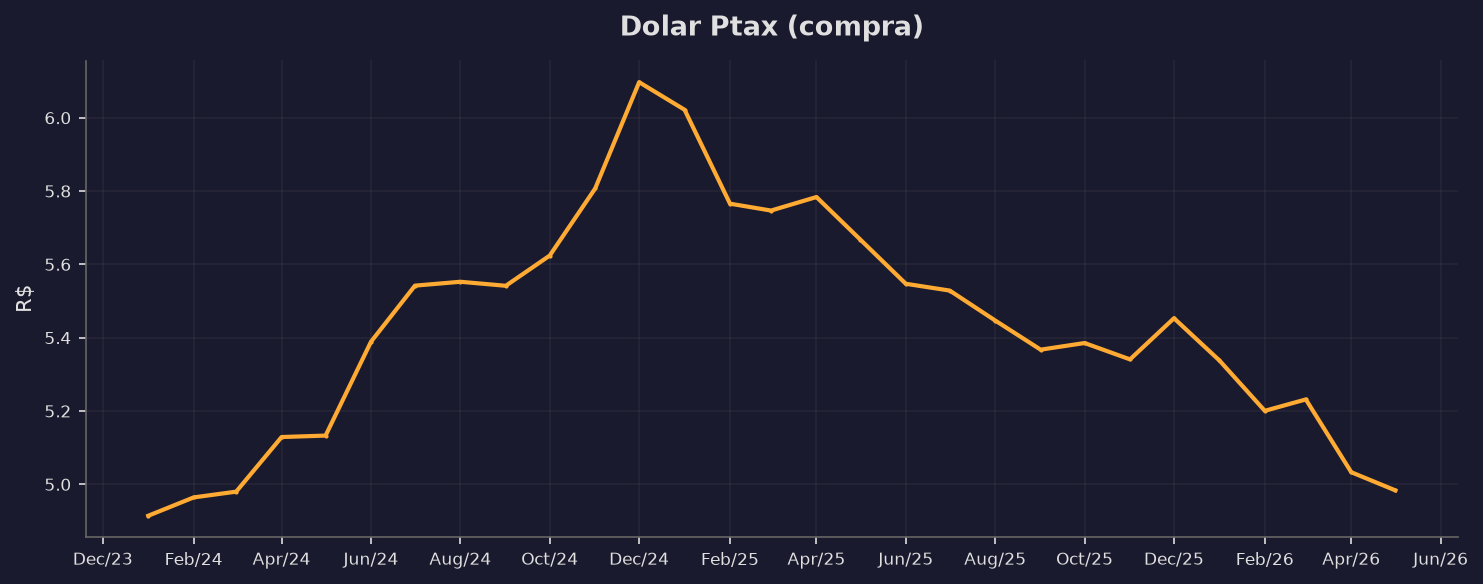
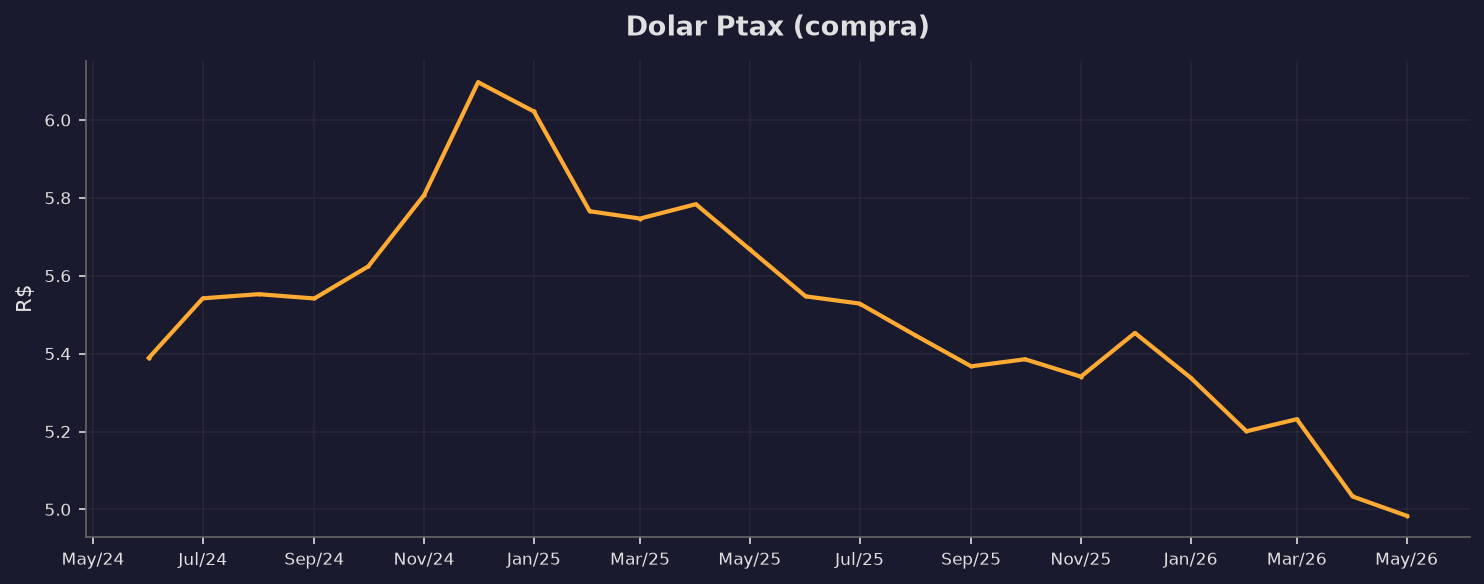
fix: grafico 6 substituido por estrutura da carteira (donut + risco por cenario); error handling no dashboard

diff --git a/scripts/dashboard_bcb.py b/scripts/dashboard_bcb.py
@@ -58,8 +58,8 @@ def grafico_selic_ipca():
     """Grafico 1: Selic + IPCA 12m - juro real."""
     print("  [1/6] Selic + IPCA 12m...", file=sys.stderr)
     
-    selic = sgs.get(432, start="2023-01-01", timeout=60)
-    ipca = sgs.get(13522, start="2023-01-01", timeout=60)
+    selic = sgs.get(432, start="2024-06-01", timeout=90)
+    ipca = sgs.get(13522, start="2024-06-01", timeout=90)
     
     fig, ax1 = plt.subplots(figsize=(10, 4.5))
     fig.patch.set_facecolor(COR_FUNDO)
@@ -99,7 +99,7 @@ def grafico_ipca_mensal():
     """Grafico 2: IPCA mensal com limiares."""
     print("  [2/6] IPCA mensal...", file=sys.stderr)
     
-    ipca = sgs.get(433, start="2024-01-01", timeout=60)
+    ipca = sgs.get(433, start="2024-06-01", timeout=90)
     
     fig, ax = plt.subplots(figsize=(10, 4))
     fig.patch.set_facecolor(COR_FUNDO)
@@ -135,7 +135,7 @@ def grafico_ibcbr():
     """Grafico 3: IBC-Br atividade economica."""
     print("  [3/6] IBC-Br...", file=sys.stderr)
     
-    ibc = sgs.get(24363, start="2023-01-01", timeout=60)
+    ibc = sgs.get(24363, start="2024-06-01", timeout=90)
     
     fig, ax = plt.subplots(figsize=(10, 4))
     fig.patch.set_facecolor(COR_FUNDO)
@@ -167,7 +167,7 @@ def grafico_dolar():
     """Grafico 4: Dolar Ptax."""
     print("  [4/6] Dolar...", file=sys.stderr)
     
-    usd = sgs.get(3698, start="2024-01-01", timeout=60)
+    usd = sgs.get(3698, start="2024-06-01", timeout=90)
     
     fig, ax = plt.subplots(figsize=(10, 4))
     fig.patch.set_facecolor(COR_FUNDO)
@@ -189,7 +189,7 @@ def grafico_igpm():
     """Grafico 5: IGP-M mensal."""
     print("  [5/6] IGP-M mensal...", file=sys.stderr)
     
-    igp = sgs.get(189, start="2024-01-01", timeout=60)
+    igp = sgs.get(189, start="2024-06-01", timeout=90)
     
     fig, ax = plt.subplots(figsize=(10, 4))
     fig.patch.set_facecolor(COR_FUNDO)
@@ -218,53 +218,137 @@ def grafico_igpm():
     return path
 
 
-def grafico_mapa_calor():
-    """Grafico 6: Mapa de calor da carteira por ativo x cenario."""
-    print("  [6/6] Mapa de calor...", file=sys.stderr)
-    
+def grafico_estrutura_carteira():
+    """Grafico 6: Estrutura da carteira - alocacao por ativo + risco por cenario."""
+    print("  [6/6] Estrutura da carteira...", file=sys.stderr)
+
     # Dados da carteira (da nota Acompanhamento Junho 2026)
-    ativos = ["IFRM11", "XFIX11", "B5P211", "CDI", "IB5M11", "Dolar", "BOVA11"]
-    cenarios = ["C1\nCresc+Desinf", "C2\nCresc+Infl", "C3\nEstagflacao", "C4\nRecessao"]
-    
-    # Contribuicao de cada ativo em cada cenario (0=nenhuma, 1=parcial, 2=forte)
-    exposicao = np.array([
-        [0, 0, 0, 2],  # IFRM11 -> C4
-        [2, 0, 0, 0],  # XFIX11 -> C1
-        [1, 2, 2, 0],  # B5P211 -> C1+C2+C3
-        [0, 2, 0, 0],  # CDI -> C2
-        [2, 0, 0, 0],  # IB5M11 -> C1
-        [0, 0, 2, 0],  # Dolar -> C3
-        [2, 0, 0, 0],  # BOVA11 -> C1
-    ])
-    
-    pesos = [37.5, 14.0, 18.75, 12.5, 7.0, 6.25, 4.0]
-    
-    fig, ax = plt.subplots(figsize=(8, 5))
+    ativos = [
+        ("IFRM11", 37.50, "C4"),
+        ("B5P211", 18.75, "C2+C3"),
+        ("XFIX11", 14.00, "C1"),
+        ("CDI", 12.50, "C2"),
+        ("IB5M11", 7.00, "C1"),
+        ("Dolar", 6.25, "C3"),
+        ("BOVA11", 4.00, "C1"),
+    ]
+
+    cores_ativo = {
+        "C1": "#00d4ff",   # azul
+        "C2": "#ffaa33",   # amarelo/laranja
+        "C3": "#ff4466",   # vermelho
+        "C4": "#aa66ff",   # roxo
+        "C2+C3": "#ff8844",# laranja-queimado
+    }
+
+    fig = plt.figure(figsize=(12, 5.5))
     fig.patch.set_facecolor(COR_FUNDO)
-    
-    im = ax.imshow(exposicao, cmap="RdYlGn", aspect="auto", vmin=0, vmax=2)
-    
-    ax.set_xticks(range(len(cenarios)))
-    ax.set_xticklabels(cenarios, fontsize=9, color=COR_TEXTO)
-    ax.set_yticks(range(len(ativos)))
-    ax.set_yticklabels([f"{a} ({p:.0f}%)" for a, p in zip(ativos, pesos)],
-                       fontsize=9, color=COR_TEXTO)
-    
-    # Valores nas celulas
-    for i in range(len(ativos)):
-        for j in range(len(cenarios)):
-            v = exposicao[i, j]
-            cor = "black" if v == 2 else "white"
-            label = {0: "", 1: "~", 2: "●"}.get(v, "")
-            ax.text(j, i, label, ha="center", va="center", fontsize=14, color=cor, fontweight="bold")
-    
-    ax.set_title("Exposicao por Ativo x Cenario", color=COR_TEXTO,
-                 fontsize=13, fontweight="bold", pad=12)
-    ax.spines[:].set_visible(False)
-    
-    fig.tight_layout()
-    
-    path = os.path.join(VAULT_PATH, "graf_mapa_calor.png")
+
+    # ========================
+    # Painel 1: Donut de alocacao
+    # ========================
+    ax1 = fig.add_subplot(121)
+    ax1.set_facecolor(COR_FUNDO)
+
+    labels = [f"{a}\n{p:.1f}%" for a, p, _ in ativos]
+    sizes = [p for _, p, _ in ativos]
+    cores = [cores_ativo[c] for _, _, c in ativos]
+    explode = [0.03] * len(ativos)
+    # Destacar IFRM11 e B5P211 (maiores pesos)
+    explode[0] = 0.08
+    explode[1] = 0.05
+
+    wedges, texts, autotexts = ax1.pie(
+        sizes, explode=explode, labels=labels, colors=cores,
+        autopct="", pctdistance=0.75,
+        startangle=90, textprops={"color": COR_TEXTO, "fontsize": 8},
+        wedgeprops={"linewidth": 0.5, "edgecolor": COR_FUNDO},
+    )
+
+    ax1.set_title("Alocacao por Ativo", color=COR_TEXTO,
+                  fontsize=12, fontweight="bold", pad=15)
+
+    # Legenda com cenários
+    legenda_cores = {
+        "C1 - Cresc+Desinf": cores_ativo["C1"],
+        "C2 - Cresc+Infl": cores_ativo["C2"],
+        "C3 - Estagflacao": cores_ativo["C3"],
+        "C4 - Recessao": cores_ativo["C4"],
+        "C2+C3 (B5P211)": cores_ativo["C2+C3"],
+    }
+    patches = [plt.Rectangle((0, 0), 1, 1, facecolor=c, edgecolor="none")
+               for c in legenda_cores.values()]
+    ax1.legend(patches, legenda_cores.keys(), loc="lower left",
+               fontsize=7, facecolor=COR_FUNDO, edgecolor=COR_CINZA,
+               framealpha=0.8, bbox_to_anchor=(0, -0.15))
+
+    # ========================
+    # Painel 2: Risco por cenario
+    # ========================
+    ax2 = fig.add_subplot(122)
+    ax2.set_facecolor(COR_FUNDO)
+
+    cenarios = ["C1\nAcoes/FIIs\nIPCA+", "C2\nCDI/B5P211", "C3\nDolar\nB5P211", "C4\nIFRM11\nPrefixado"]
+    capital = [25.00, 25.00, 12.50, 37.50]
+    vols = [9, 0, 18, 6]
+    risco = [c * v / 100 for c, v in zip(capital, vols)]  # contribuicao de risco
+    risco_pct = [r / sum(risco) * 100 if r > 0 else 0 for r in risco]
+    cores_cenario = ["#00d4ff", "#ffaa33", "#ff4466", "#aa66ff"]
+
+    # Barras de capital
+    barras_capital = ax2.bar(
+        np.arange(len(cenarios)) - 0.2, capital, width=0.35,
+        color=[c + "55" for c in cores_cenario], edgecolor=cores_cenario,
+        linewidth=1.5, alpha=0.7, label="Capital (%)"
+    )
+
+    # Barras de contribuicao de risco
+    barras_risco = ax2.bar(
+        np.arange(len(cenarios)) + 0.2, risco_pct, width=0.35,
+        color=cores_cenario, edgecolor="white",
+        linewidth=0.5, alpha=0.9, label="Risco (%)"
+    )
+
+    # Anotacoes
+    for i in range(len(cenarios)):
+        # Capital
+        ax2.text(i - 0.2, capital[i] + 1, f"{capital[i]:.1f}%",
+                 ha="center", fontsize=8, color=COR_TEXTO, fontweight="bold")
+        # Risco
+        if risco_pct[i] > 0:
+            ax2.text(i + 0.2, risco_pct[i] + 1, f"{risco_pct[i]:.0f}%",
+                     ha="center", fontsize=8, color=cores_cenario[i], fontweight="bold")
+        else:
+            ax2.text(i + 0.2, 1.5, "ancora",
+                     ha="center", fontsize=7, color=COR_CINZA, style="italic")
+
+    # Linha de referencia 33.3%
+    ax2.axhline(y=33.33, color=COR_VERDE, linestyle="--", alpha=0.5, linewidth=1)
+    ax2.text(3.3, 33.8, "33,3% (paridade)", color=COR_VERDE, fontsize=7, alpha=0.6)
+
+    ax2.set_xticks(np.arange(len(cenarios)))
+    ax2.set_xticklabels(cenarios, fontsize=8, color=COR_TEXTO)
+    ax2.set_ylabel("%", color=COR_TEXTO, fontsize=10)
+    ax2.set_title("Capital vs Risco por Cenário", color=COR_TEXTO,
+                  fontsize=12, fontweight="bold", pad=15)
+    ax2.legend(fontsize=7, facecolor=COR_FUNDO, edgecolor=COR_CINZA, loc="upper right")
+    ax2.set_ylim(0, 50)
+    ax2.spines["bottom"].set_color(COR_CINZA)
+    ax2.spines["left"].set_color(COR_CINZA)
+    ax2.spines["top"].set_visible(False)
+    ax2.spines["right"].set_visible(False)
+    ax2.grid(axis="y", alpha=0.15, color=COR_CINZA)
+    ax2.tick_params(colors=COR_TEXTO, labelsize=8)
+
+    # Nota explicativa
+    fig.text(0.5, 0.02,
+             "Paridade de risco: C1 = C3 = C4 = 33,3% do risco total. "
+             "C2 tem vol ~0% (ancora de liquidez).",
+             ha="center", fontsize=8, color=COR_CINZA, style="italic")
+
+    fig.tight_layout(rect=[0, 0.05, 1, 1])
+
+    path = os.path.join(VAULT_PATH, "graf_estrutura_carteira.png")
     fig.savefig(path, dpi=150, bbox_inches="tight", facecolor=COR_FUNDO)
     plt.close(fig)
     return path
@@ -311,9 +395,9 @@ def gerar_relatorio_dashboard(caminhos):
     lines.append("")
     lines.append(f"![[graf_igpm.png]]")
     lines.append("")
-    lines.append("## Mapa de Calor da Carteira")
+    lines.append("## Estrutura da Carteira")
     lines.append("")
-    lines.append(f"![[graf_mapa_calor.png]]")
+    lines.append("![[graf_estrutura_carteira.png]]")
     lines.append("")
     lines.append("---")
     lines.append(f"*Gerado em {hoje}*")
@@ -329,20 +413,41 @@ def gerar_relatorio_dashboard(caminhos):
     return path
 
 
+def _safe_graf(func):
+    """Wrapper que captura erros em graficos individuais."""
+    try:
+        return func()
+    except Exception as e:
+        print(f"  [!] Erro em {func.__name__}: {str(e)[:80]}", file=sys.stderr)
+        return None
+
+
 def main():
     print("Gerando dashboard BCB...\n", file=sys.stderr)
     
     os.makedirs(VAULT_PATH, exist_ok=True)
     
-    caminhos = []
-    caminhos.append(grafico_selic_ipca())
-    caminhos.append(grafico_ipca_mensal())
-    caminhos.append(grafico_ibcbr())
-    caminhos.append(grafico_dolar())
-    caminhos.append(grafico_igpm())
-    caminhos.append(grafico_mapa_calor())
+    funcoes = [
+        grafico_selic_ipca,
+        grafico_ipca_mensal,
+        grafico_ibcbr,
+        grafico_dolar,
+        grafico_igpm,
+        grafico_estrutura_carteira,
+    ]
     
-    print("\nGerando relatorio markdown...", file=sys.stderr)
+    caminhos = []
+    for fn in funcoes:
+        p = _safe_graf(fn)
+        if p:
+            caminhos.append(p)
+    
+    if not caminhos:
+        print("[!] Nenhum grafico foi gerado!", file=sys.stderr)
+        return
+    
+    print(f"\n[{len(caminhos)}/{len(funcoes)} graficos gerados]", file=sys.stderr)
+    print("Gerando relatorio markdown...", file=sys.stderr)
     relatorio = gerar_relatorio_dashboard(caminhos)
     
     print(f"\nDashboard salvo: {relatorio}", file=sys.stderr)

diff --git a/01 - Notas Geradas/Dashboard BCB - 2026-06-19.md b/01 - Notas Geradas/Dashboard BCB - 2026-06-19.md
@@ -11,7 +11,7 @@ status: gerado_automaticamente
 
 # Dashboard BCB - 2026-06-19
 
-> Gerado em 19/06/2026 20:21
+> Gerado em 19/06/2026 20:58
 
 ## Selic vs IPCA 12 meses
 
@@ -33,9 +33,9 @@ status: gerado_automaticamente
 
 ![[graf_igpm.png]]
 
-## Mapa de Calor da Carteira
+## Estrutura da Carteira
 
-![[graf_mapa_calor.png]]
+![[graf_estrutura_carteira.png]]
 
 ---
-*Gerado em 19/06/2026 20:21*
+*Gerado em 19/06/2026 20:58*